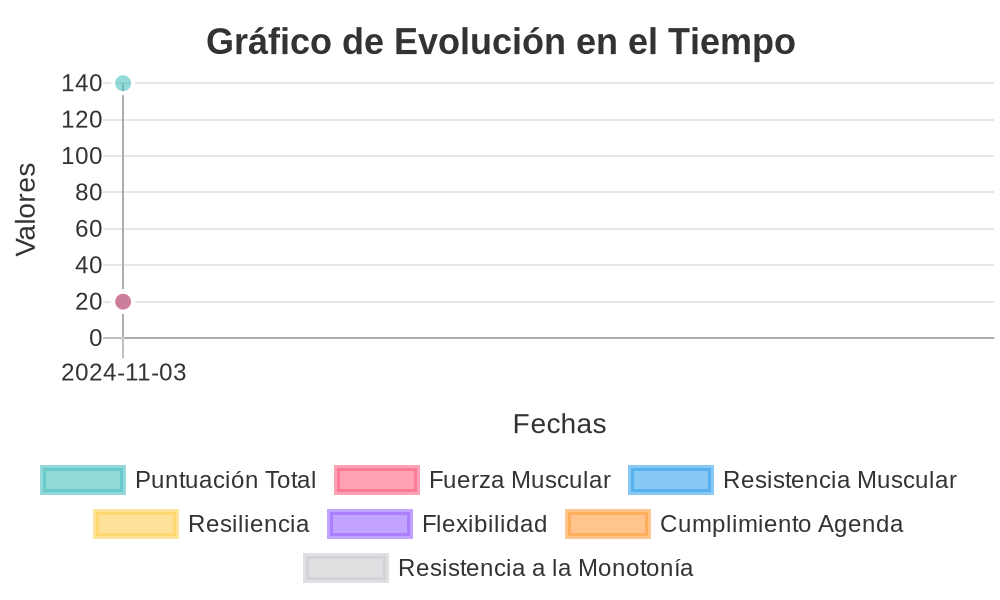
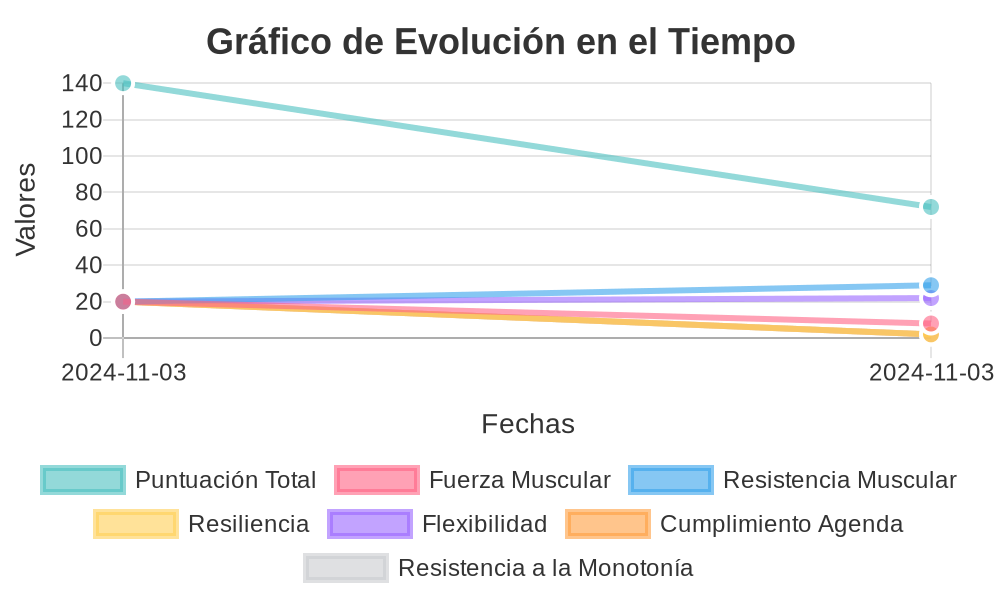
eso tilin

diff --git a/Routes/web.php b/Routes/web.php
@@ -667,7 +667,7 @@ SimpleRouter::group(['middleware' => PagoMiddleware::class], function () use ($l
                         $resultado [] = $r;
                     }
                     if (empty($resultado)) {
-                        echo "no hay rutinas";
+                        $template->renderTemplate('noRutinas');
                         exit();
                     }
                     $data = [
